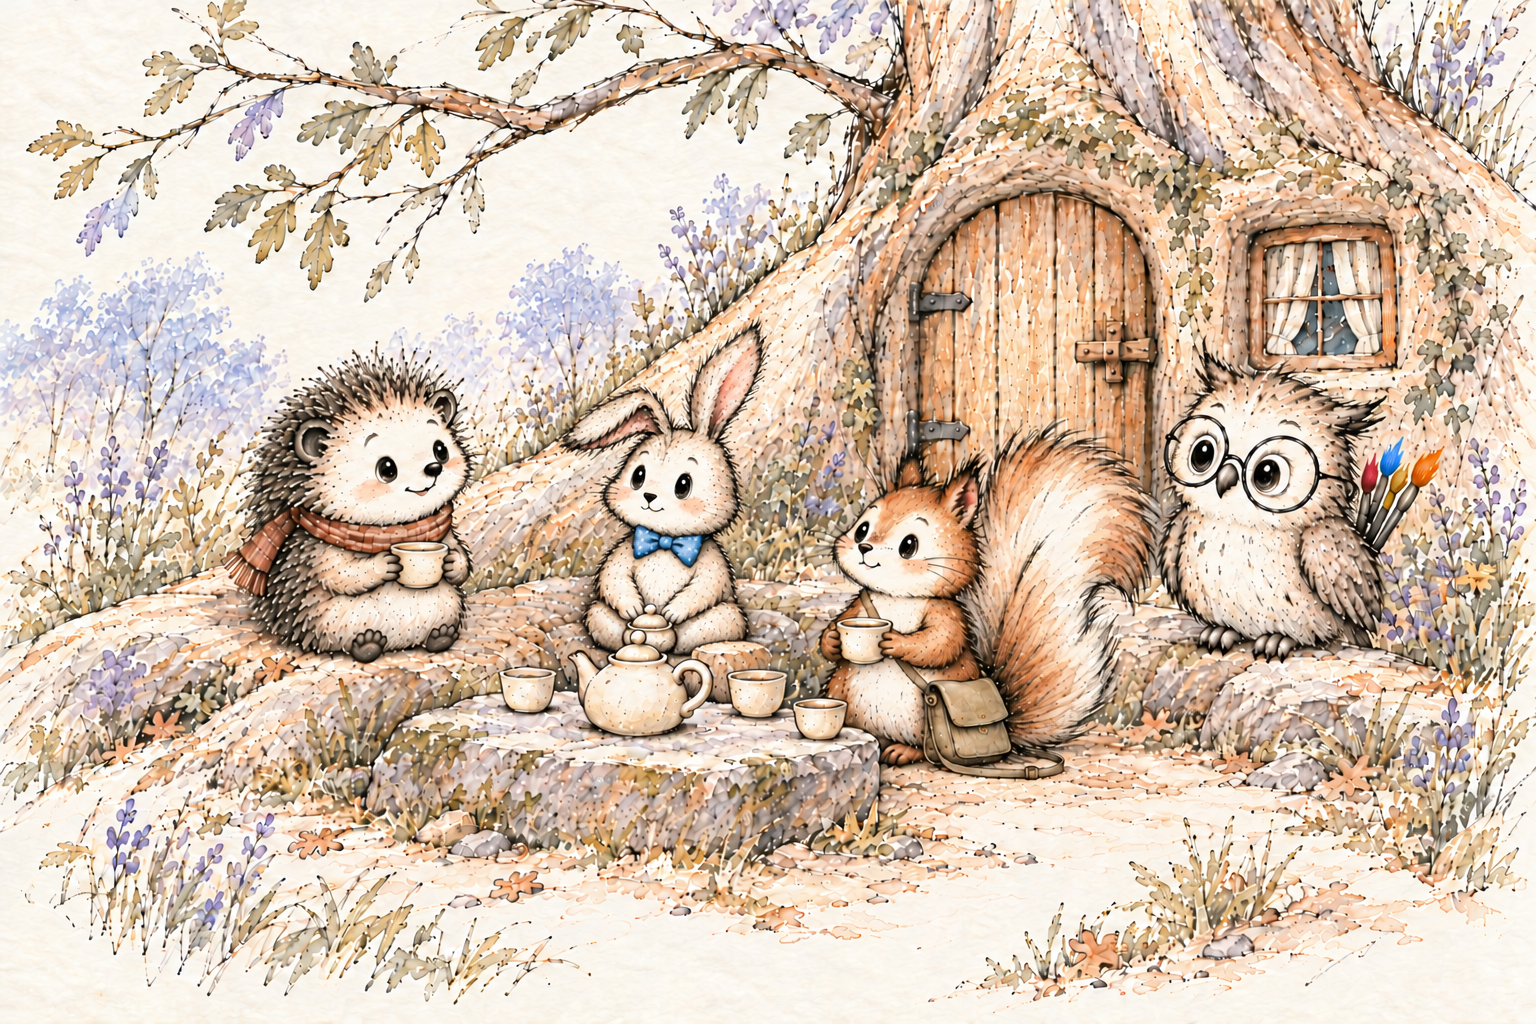
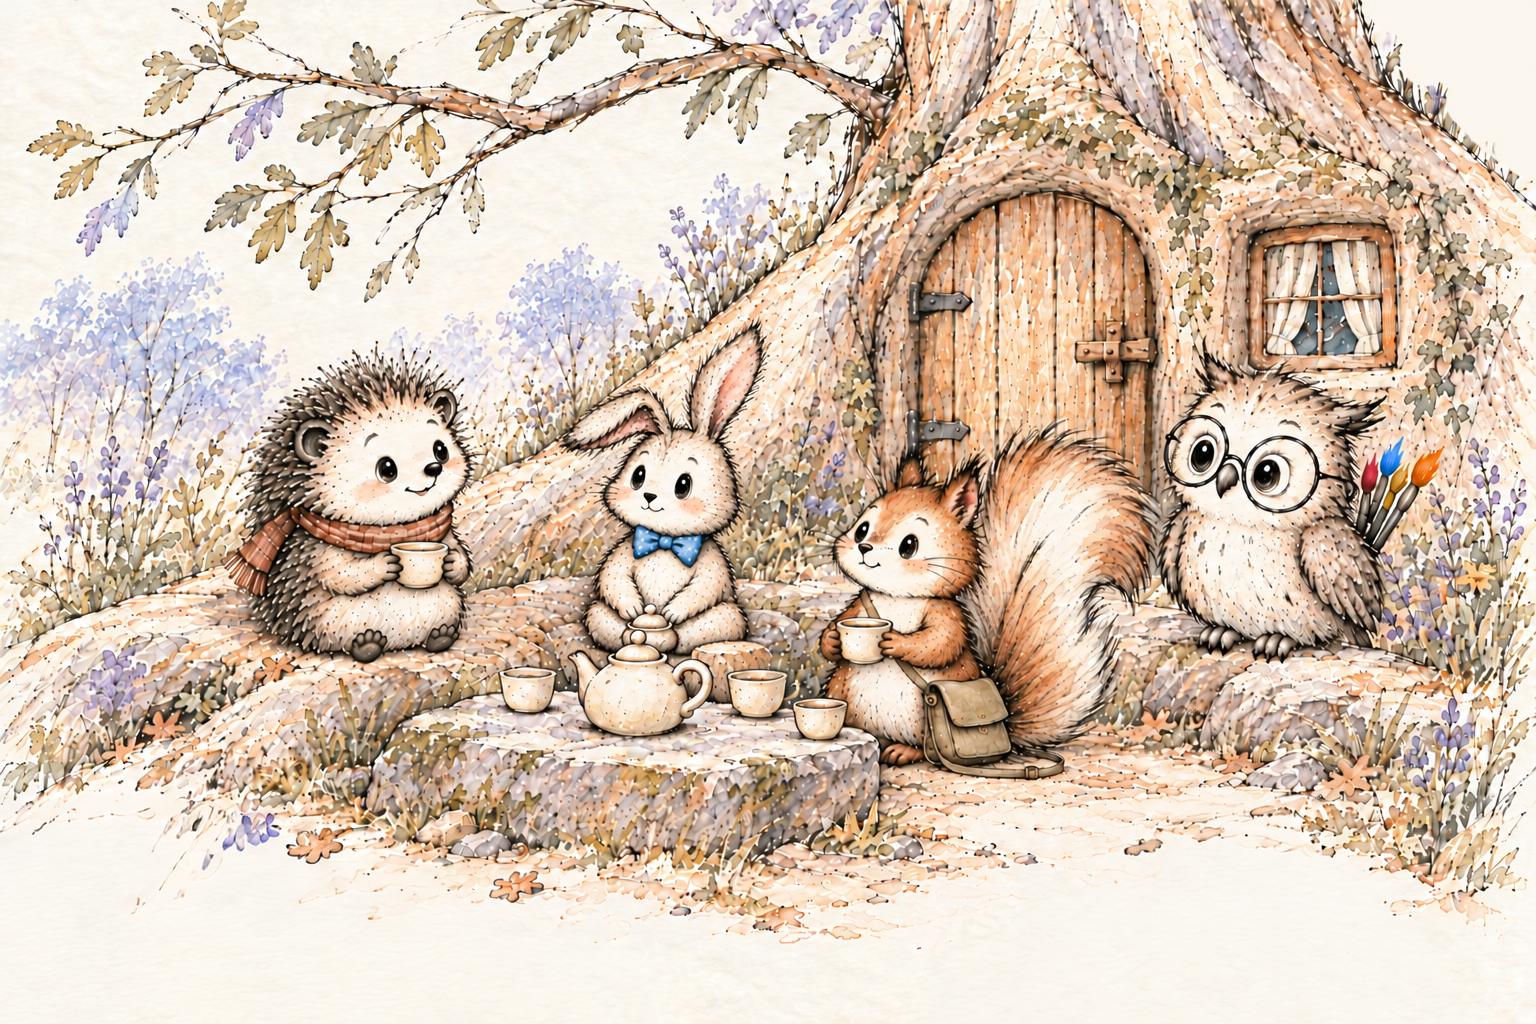
Update story and gift artwork with responsive popup layouts

diff --git a/components/gift-popup.tsx b/components/gift-popup.tsx
@@ -10,13 +10,14 @@ function remember(state: "dismissed" | "claimed") {
   try { localStorage.setItem(storageKey, state); } catch { /* Browser storage is optional. */ }
 }
 
-function GiftCard({ onClose }: { onClose: (claimed: boolean) => void }) {
-  const [stage, setStage] = useState<Stage>("invitation");
+function GiftCard({ onClose, initialStage = "invitation" }: { onClose: (claimed: boolean) => void; initialStage?: Stage }) {
+  const [stage, setStage] = useState<Stage>(initialStage);
   const [status, setStatus] = useState<"idle" | "saving" | "error">("idle");
   const [error, setError] = useState("");
   const [claimPath, setClaimPath] = useState("");
   const [copied, setCopied] = useState(false);
   const [copyFailed, setCopyFailed] = useState(false);
+  const [notice, setNotice] = useState<"terms" | "privacy" | null>(null);
   const dialogRef = useRef<HTMLDialogElement>(null);
   const titleRef = useRef<HTMLHeadingElement>(null);
   const submitting = useRef(false);
@@ -50,7 +51,7 @@ function GiftCard({ onClose }: { onClose: (claimed: boolean) => void }) {
     try {
       const response = await fetch("/api/gifts/claim", {
         method: "POST", headers: { "Content-Type": "application/json" },
-        body: JSON.stringify({ email: form.get("email"), marketingConsent: form.get("marketingConsent") === "on", company: form.get("company") }),
+        body: JSON.stringify({ email: form.get("email"), marketingConsent: false, company: form.get("company") }),
       });
       const result = await response.json() as { error?: string; claimPath?: string };
       if (!response.ok || !result.claimPath) throw new Error(result.error || "We couldn’t save your gift. Please try again.");
@@ -78,15 +79,15 @@ function GiftCard({ onClose }: { onClose: (claimed: boolean) => void }) {
       }}>
       <button className={styles.close} type="button" aria-label="Close gift popup" onClick={() => onClose(stage === "claimed")}><X size={20} aria-hidden="true" /></button>
       <div className={styles.card}>
-        <div className={styles.art} aria-hidden="true">
-          <span className={styles.artHalo} />
-          <img className={`${styles.mo} ${stage !== "invitation" ? styles.artHidden : ""}`} src="/assets/mo-portrait-v2.webp" alt="" width={800} height={800} />
-          <div className={`${styles.parcel} ${stage !== "invitation" ? styles.artHidden : ""}`}><Gift size={68} strokeWidth={1.1} /></div>
-          <img className={`${styles.pencils} ${stage === "invitation" ? styles.artHidden : ""}`} src="/assets/activity-colouring-detail-v2.webp" alt="" width={800} height={800} />
+        <div className={`${styles.art} ${stage !== "invitation" ? styles.productArt : ""}`} aria-hidden="true">
+          <img className={`${styles.mo} ${stage !== "invitation" ? styles.artHidden : ""}`} src="/assets/mo-gift-invitation.webp" alt="" width={584} height={730} />
+          <picture className={`${styles.pencils} ${stage === "invitation" ? styles.artHidden : ""}`}>
+            <source media="(max-width: 650px)" srcSet="/assets/gift-pencils-landscape.webp" width={900} height={450} />
+            <img src="/assets/gift-pencils-portrait.webp" alt="" width={720} height={1080} />
+          </picture>
           <p className={styles.artCaption}>{stage === "invitation" ? "A little kindness, from Mo." : "For colourful little adventures."}</p>
         </div>
         <div className={styles.content} key={stage}>
-          <p className={styles.eyebrow}>{stage === "claimed" ? "All yours" : "A gift from the woodland"}</p>
           {stage === "invitation" ? <>
             <h2 id="mo-gift-title" ref={titleRef} tabIndex={-1}>Mo has a little<br />gift for you.</h2>
             <p id="mo-gift-description" className={styles.description}>A little extra with your first book order.</p>
@@ -94,22 +95,30 @@ function GiftCard({ onClose }: { onClose: (claimed: boolean) => void }) {
             <button className={styles.secondary} type="button" onClick={() => onClose(false)}>Maybe later</button>
           </> : stage === "reveal" ? <>
             <h2 id="mo-gift-title" ref={titleRef} tabIndex={-1}>A set of colouring<br />pencils, on Mo.</h2>
-            <p id="mo-gift-description" className={styles.description}>Claim your gift to enjoy with your first Life of Mo book.</p>
+            <p id="mo-gift-description" className={styles.description}>Claim a free set with your first Life of Mo book order.</p>
             <form onSubmit={claimGift} className={styles.form}>
               <label htmlFor="gift-email">Your email address</label>
-              <input id="gift-email" name="email" type="email" autoComplete="email" placeholder="you@example.com" required maxLength={254} aria-describedby={status === "error" ? "gift-error" : "gift-terms"} aria-invalid={status === "error" ? true : undefined} />
+              <input id="gift-email" name="email" type="email" autoComplete="email" placeholder="you@example.com" required maxLength={254} aria-describedby={`gift-notice gift-terms${status === "error" ? " gift-error" : ""}`} aria-invalid={status === "error" ? true : undefined} />
               <div className="honey" aria-hidden="true"><label>Company<input name="company" tabIndex={-1} autoComplete="off" /></label></div>
-              <label className={styles.consent}><input name="marketingConsent" type="checkbox" /><span>Send me Life of Mo stories and book news. <span className={styles.optional}>(Optional)</span></span></label>
+              <p className={styles.notice} id="gift-notice">
+                By claiming your gift, you agree to our <button type="button" aria-expanded={notice === "terms"} aria-controls="gift-offer-terms" onClick={() => setNotice(notice === "terms" ? null : "terms")}>gift terms</button> and acknowledge our <button type="button" aria-expanded={notice === "privacy"} aria-controls="gift-privacy-notice" onClick={() => setNotice(notice === "privacy" ? null : "privacy")}>privacy notice</button>.
+              </p>
+              <p className={styles.noticeDetails} id="gift-offer-terms" hidden={notice !== "terms"}>
+                One set of colouring pencils with your first paid Life of Mo book order. Use the same email at checkout. Existing subscribers are welcome too.
+              </p>
+              <p className={styles.noticeDetails} id="gift-privacy-notice" hidden={notice !== "privacy"}>
+                We save your email and claim date to add the gift to your first paid book order. A cookie remembers your claim, and browser storage remembers if you dismiss this popup. Claiming a gift does not subscribe you to marketing emails.
+              </p>
               {error ? <p className={styles.error} id="gift-error" role="alert">{error}</p> : null}
               <button className={`button ${styles.primary}`} type="submit" disabled={status === "saving"}>{status === "saving" ? "Saving your gift…" : "Claim my gift"}</button>
             </form>
-            <p className={styles.terms} id="gift-terms">One set with your first paid book order. Existing subscribers are welcome too.</p>
+            <p className={styles.terms} id="gift-terms">One set with your first paid book order.</p>
           </> : <>
             <span className={styles.successMark}><Check size={22} aria-hidden="true" /></span>
-            <h2 id="mo-gift-title" ref={titleRef} tabIndex={-1}>Your gift is unlocked.</h2>
-            <p id="mo-gift-description" className={styles.description}>Use this email at checkout and we’ll add your pencils automatically.</p>
+            <h2 id="mo-gift-title" ref={titleRef} tabIndex={-1}>Your gift is saved.</h2>
+            <p id="mo-gift-description" className={styles.description}>We’ll include your free colouring pencils with your first book order. Just use the same email at checkout.</p>
             <button className={`button ${styles.primary}`} type="button" onClick={() => onClose(true)}>Explore the book</button>
-            <button className={styles.copyLink} type="button" onClick={copyLink}><Copy size={14} aria-hidden="true" />{copied ? "Gift link copied" : "Copy my gift link"}</button>
+            <button className={styles.copyLink} type="button" onClick={copyLink} disabled={!claimPath}><Copy size={14} aria-hidden="true" />{copied ? "Gift link copied" : "Copy my gift link"}</button>
             <span className="visually-hidden" role="status">{copied ? "Your gift link has been copied." : ""}</span>
             {copyFailed ? <label className={styles.backupLabel}>Your gift link<input readOnly value={typeof window === "undefined" ? claimPath : new URL(claimPath, location.origin).href} onFocus={(event) => event.currentTarget.select()} /></label> : null}
           </>}
@@ -123,6 +132,7 @@ export function GiftPopup() {
   const [open, setOpen] = useState(false);
   const [reached, setReached] = useState(false);
   const [claimed, setClaimed] = useState(false);
+  const [previewStage, setPreviewStage] = useState<Stage>("invitation");
   const close = useCallback((wasClaimed: boolean) => {
     let savedClaim = wasClaimed;
     try { savedClaim ||= localStorage.getItem(storageKey) === "claimed"; } catch { /* Optional storage. */ }
@@ -133,9 +143,15 @@ export function GiftPopup() {
 
   useEffect(() => {
     // A local design preview never clears a customer's saved claim or dismissal.
-    if (process.env.NODE_ENV === "development" && new URLSearchParams(location.search).get("gift-preview") === "1") {
-      const frame = requestAnimationFrame(() => { setReached(true); setOpen(true); });
-      return () => cancelAnimationFrame(frame);
+    if (process.env.NODE_ENV === "development") {
+      const preview = new URLSearchParams(location.search).get("gift-preview");
+      if (preview === "1" || preview === "reveal" || preview === "claimed") {
+        const frame = requestAnimationFrame(() => {
+          setPreviewStage(preview === "1" ? "invitation" : preview);
+          setReached(true); setOpen(true);
+        });
+        return () => cancelAnimationFrame(frame);
+      }
     }
     let saved: string | null = null;
     try { saved = localStorage.getItem(storageKey); } catch { /* Optional storage. */ }
@@ -157,6 +173,6 @@ export function GiftPopup() {
 
   return <>
     {reached && !claimed && !open ? <button className={styles.launcher} type="button" onClick={() => setOpen(true)}><Gift size={18} aria-hidden="true" />Mo’s gift</button> : null}
-    {open ? <GiftCard onClose={close} /> : null}
+    {open ? <GiftCard onClose={close} initialStage={previewStage} /> : null}
   </>;
 }

diff --git a/components/gift-popup.module.css b/components/gift-popup.module.css
@@ -3,15 +3,14 @@
 .close { position: absolute; z-index: 2; right: 8px; top: 8px; width: 44px; height: 44px; display: grid; place-items: center; border-radius: 50%; }
 .close:hover { background: #eae1d2; }
 .card { display: grid; grid-template-columns: 43% 57%; min-height: 484px; }
-.art { position: relative; min-width: 0; display: flex; flex-direction: column; align-items: center; justify-content: center; padding: 38px 12px 48px 20px; background: #f2ecdf; overflow: hidden; }
-.artHalo { position: absolute; width: 238px; height: 238px; border-radius: 50%; background: #dfd7e2; opacity: .7; top: 50%; left: 50%; transform: translate(-50%, -51%); }
-.mo { width: 292px; max-width: 100%; position: relative; transition: opacity 180ms ease; }
-.parcel { position: absolute; bottom: 66px; right: 22px; width: 91px; height: 88px; background: #e8dbc0; border: 1px solid #b7a17a; border-radius: 6px; display: grid; place-items: center; color: #77533c; transform: rotate(8deg); box-shadow: 0 5px 12px #51321f0a; transition: opacity 180ms ease; }
-.pencils { position: absolute; width: 268px; max-width: 90%; transition: opacity 180ms ease; }
+.art { position: relative; min-width: 0; display: flex; flex-direction: column; align-items: center; justify-content: center; padding: 38px 12px 48px 20px; background: #dfd7e2; overflow: hidden; }
+.mo { width: 292px; max-width: 100%; position: relative; object-fit: contain; transition: opacity 180ms ease; }
+.productArt { padding: 0; }
+.pencils { position: absolute; inset: 0; width: 100%; height: 100%; transition: opacity 180ms ease; }
+.pencils img { width: 100%; height: 100%; object-fit: contain; }
 .artHidden { opacity: 0; pointer-events: none; }
 .artCaption { position: absolute; left: 20px; right: 20px; bottom: 29px; font: 500 12px/1.5 var(--serif); text-align: center; color: #75644f; }
 .content { align-self: center; padding: 44px 34px 32px; animation: appear 180ms ease-out; }
-.eyebrow { text-transform: uppercase; font-size: 10px; letter-spacing: 1.5px; color: #78674f; font-weight: 600; margin-bottom: 13px; }
 .content h2 { font-size: 32px; line-height: 1.18; letter-spacing: -.9px; }
 .content h2:focus { outline: none; }
 .description { font-size: 16px; line-height: 1.55; margin-top: 17px; }
@@ -23,9 +22,10 @@
 .form > input::placeholder { color: #938572; }
 .form > input:focus-visible { outline: 2px solid var(--brown); outline-offset: 2px; }
 .form .primary { margin-top: 15px; }
-.consent { display: flex; align-items: flex-start; gap: 8px; margin-top: 13px; font-size: 12px; line-height: 1.5; cursor: pointer; }
-.consent input { margin: 2px 0 0; width: 17px; height: 17px; accent-color: var(--brown); flex-shrink: 0; }
-.optional { color: #7e6c59; }
+.notice { margin-top: 13px; font-size: 12px; line-height: 1.6; color: #786751; }
+.notice button { padding: 0; color: var(--brown); text-decoration: underline; text-underline-offset: 3px; }
+.notice button:focus-visible { outline: 2px solid var(--brown); outline-offset: 3px; }
+.noticeDetails { margin-top: 10px; padding: 12px; border-radius: 6px; background: #eee5d5; font-size: 12px; line-height: 1.6; }
 .terms { margin-top: 13px; font-size: 11px; line-height: 1.5; color: #786751; }
 .error { font-size: 13px; color: #8a3228; margin-top: 12px; }
 .successMark { display: grid; place-items: center; width: 42px; height: 42px; border-radius: 50%; background: #e5e8da; color: #586340; margin: 1px 0 16px; }
@@ -39,15 +39,12 @@
   .dialog { width: calc(100vw - 32px); max-width: 410px; max-height: calc(100dvh - 32px); }
   .card { grid-template-columns: 1fr; min-height: 0; }
   .art { height: 158px; padding: 0; }
-  .artHalo { width: 137px; height: 137px; }
-  .mo { width: 164px; }
-  .parcel { width: 56px; height: 53px; bottom: 12px; right: calc(50% - 95px); }
-  .parcel svg { width: 42px; height: 42px; }
-  .pencils { width: 144px; }
+  .mo { width: 164px; height: 100%; }
+  .productArt { height: 190px; }
+  .pencils img { object-fit: cover; }
   .artCaption { display: none; }
   .content { padding: 25px 25px 26px; }
   .content h2 { font-size: 29px; }
-  .eyebrow { margin-bottom: 10px; font-size: 9px; }
   .description { margin-top: 12px; font-size: 15px; }
   .primary { margin-top: 20px; }
   .form { margin-top: 15px; }
@@ -57,13 +54,21 @@
 @media (max-height: 680px) and (max-width: 650px) {
   .art { height: 108px; }
   .mo { width: 112px; }
-  .pencils { width: 100px; }
-  .artHalo { width: 95px; height: 95px; }
-  .parcel { width: 43px; height: 42px; right: calc(50% - 72px); bottom: 5px; }
-  .parcel svg { width: 33px; height: 33px; }
+  .productArt { height: 120px; }
+  .pencils img { object-fit: contain; }
   .content { padding-block: 18px; }
+}
+@media (max-height: 520px) and (min-width: 651px) {
+  .card { min-height: 0; }
+  .art { position: sticky; top: 0; height: calc(100dvh - 50px); padding: 16px 12px 32px; }
+  .productArt { padding: 0; }
+  .mo { max-height: 100%; }
+  .artCaption { bottom: 12px; }
+  .content { padding: 28px 26px 22px; }
+  .content h2 { font-size: 28px; }
+  .description { font-size: 14px; margin-top: 12px; }
 }
 @media (prefers-reduced-motion: reduce) {
   .content { animation: none; }
-  .mo, .pencils, .parcel { transition: none; }
+  .mo, .pencils { transition: none; }
 }

diff --git a/app/booksellers/page.tsx b/app/booksellers/page.tsx
@@ -1,6 +1,7 @@
 import type { Metadata } from "next";
 import { SiteFooter, SiteHeader } from "../../components/site-chrome";
 import { BooksellerForm } from "./bookseller-form";
+import { StorySpreads } from "../../components/story-spreads";
 import styles from "./booksellers.module.css";
 
 export const metadata: Metadata = {
@@ -64,15 +65,7 @@ export default function BooksellersPage() {
               </div>
             </dl>
           </div>
-          <figure className={styles.bookArt}>
-            <img
-              src="/assets/spread-moonlit-hilltop.webp"
-              alt="An open spread of Ella’s Night Flight, with Mo and Ella overlooking the moonlit woodland."
-              width={1859}
-              height={846}
-              loading="lazy"
-            />
-          </figure>
+          <StorySpreads />
         </section>
 
         <section className={`container ${styles.collection}`} aria-labelledby="collection-title">
